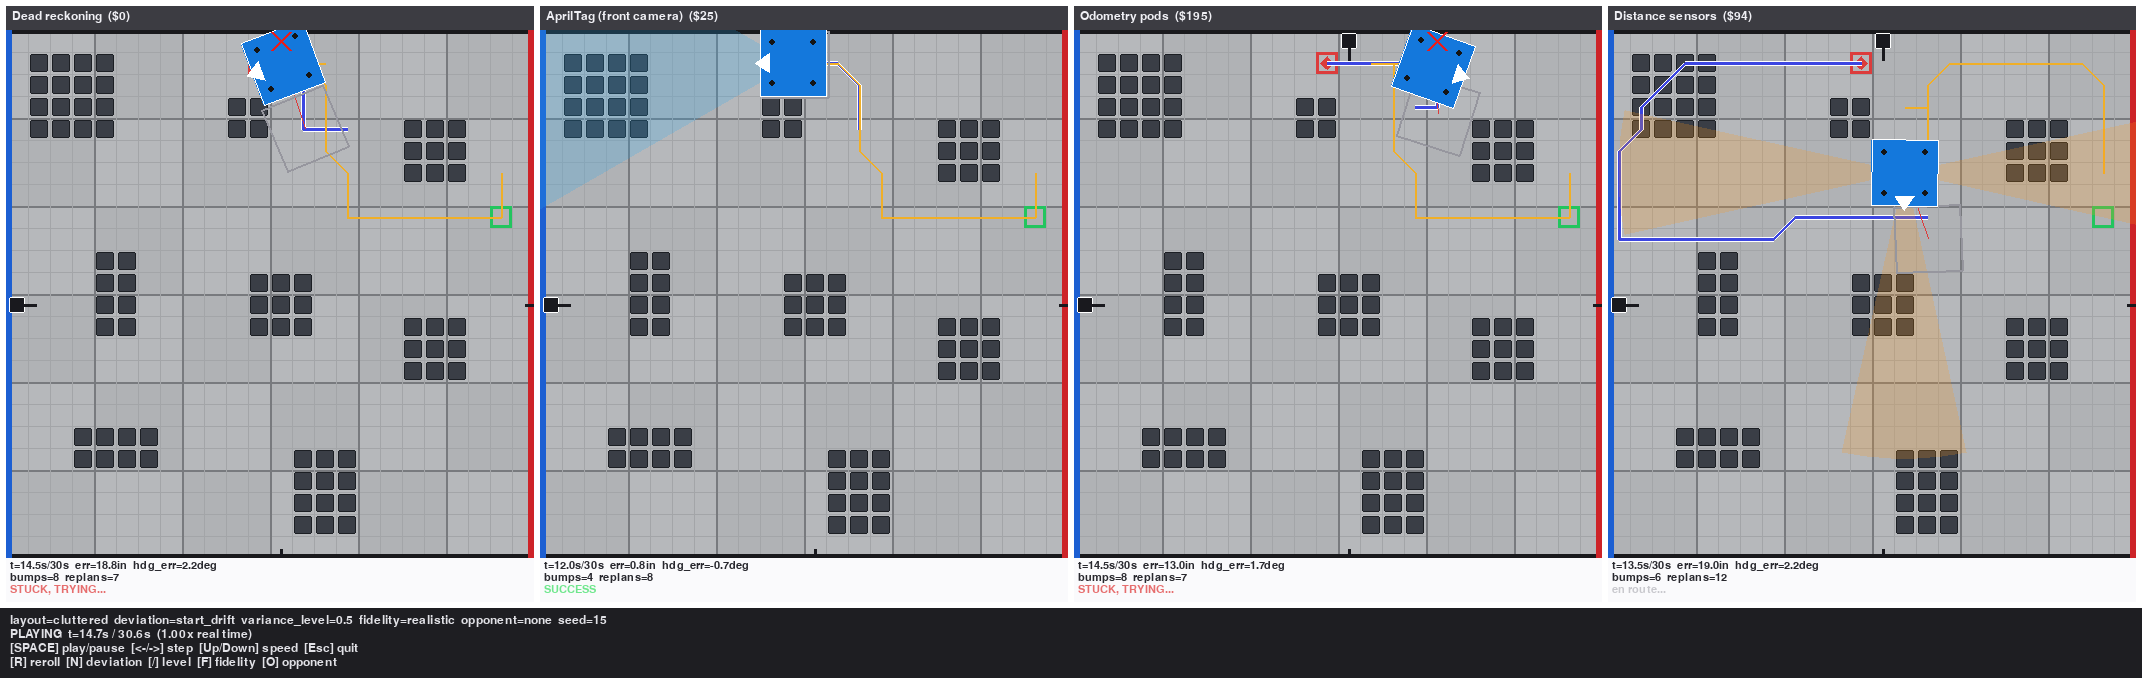
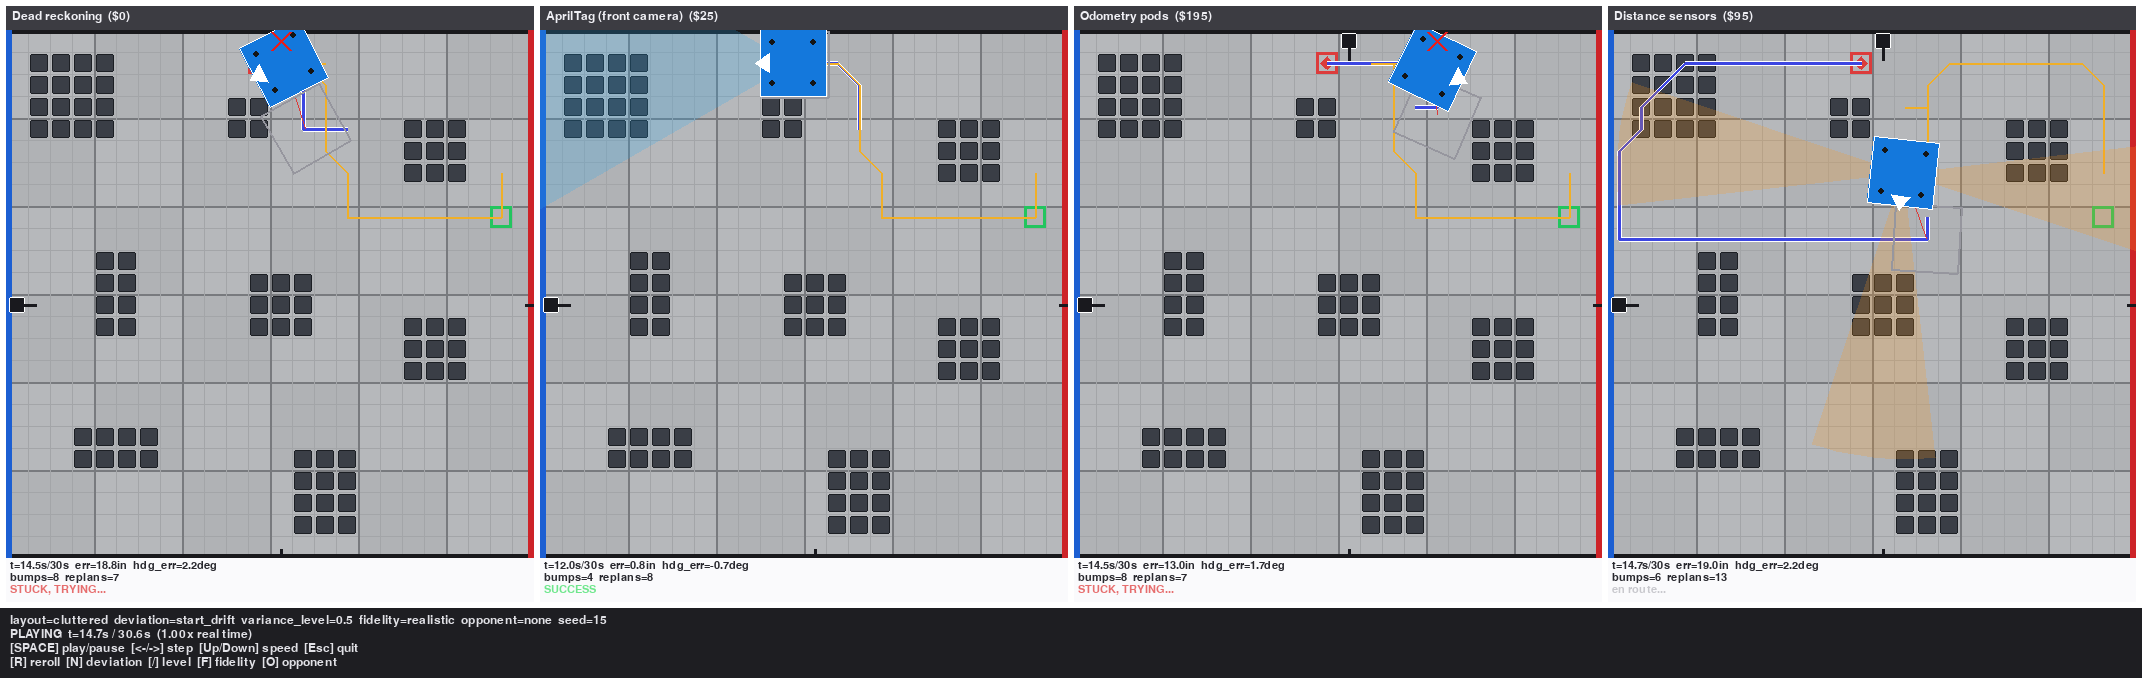
illustrate the README with poster figures, fix the / label rounding and stale +6.1pp/, and align poster figure names with their generators

diff --git a/pygame_app/scenarios/scenario_ftc_suites.py b/pygame_app/scenarios/scenario_ftc_suites.py
@@ -91,7 +91,7 @@ from nav.algorithms import astar
 from nav.config import COST_INFLUENCE_RADIUS, COST_MAX_EXTRA
 from nav.grid import Grid
 
-from ftc.config import CELL_SIZE_IN, FTC_GRID_SIZE, ROBOT_RADIUS_CELLS
+from ftc.config import CELL_SIZE_IN, FTC_GRID_SIZE, ROBOT_RADIUS_CELLS, usd
 from ftc.field import build_grid, tag_sites_for
 from ftc.sensors import SUITE_LABELS, SUITE_ORDER, SUITES, heading_deg
 from ftc.suite_benchmark import DEVIATION_TYPE_ORDER, DEVIATION_TYPES, MAX_ATTEMPTS_PER_TRIAL, MIN_PATH_LEN
@@ -476,7 +476,7 @@ def draw_panel(screen, font, hud_font, x0, y0, cell_px, grid_size, obstacle_cell
     pygame.draw.rect(screen, PANEL_BG, (x0, y0, panel_w, panel_h))
     pygame.draw.rect(screen, LABEL_BG, (x0, y0, panel_w, LABEL_H))
     name = SUITE_LABELS.get(trace.suite.name, trace.suite.name)
-    screen.blit(font.render(f"{name}  (${trace.suite.cost_usd:.0f})", True, LABEL_TEXT), (x0 + 6, y0 + 4))
+    screen.blit(font.render(f"{name}  (${usd(trace.suite.cost_usd)})", True, LABEL_TEXT), (x0 + 6, y0 + 4))
 
     gx0, gy0 = x0, y0 + LABEL_H
     clip_rect = pygame.Rect(gx0, gy0, panel_w, grid_size * cell_px)

diff --git a/screenshots/poster figures/generate_severity_curves.py b/screenshots/poster figures/generate_severity_curves.py
@@ -1,4 +1,4 @@
-"""Regenerates figure8_severity_curves.png: the one thing none of the other poster figures show --
+"""Regenerates severity_curves.png: the one thing none of the other poster figures show --
 DEGRADATION. Every other chart is a single-point summary; this one
 shows success rate collapsing as the field deviates further from the
 map, and that the three deviation types collapse at very different
@@ -17,7 +17,7 @@ simulation run.
 Regenerate after re-running ftc/suite_benchmark.py (i.e. whenever
 benchmark_results/ftc_suite_results.csv changes):
 
-    python3 "screenshots/poster figures/generate_figure8_severity_curves.py"
+    python3 "screenshots/poster figures/generate_severity_curves.py"
 """
 import csv
 import sys
@@ -35,7 +35,7 @@ sys.path.insert(0, str(OUT_DIR))
 from poster_common import REPO_ROOT  # noqa: E402
 
 RESULTS_CSV = REPO_ROOT / "benchmark_results" / "ftc_suite_results.csv"
-OUT = OUT_DIR / "figure8_severity_curves.png"
+OUT = OUT_DIR / "severity_curves.png"
 
 DEVIATION_ORDER = ["start_drift", "obstacle_drift", "unplanned_blocker"]
 DEVIATION_LABELS = {

diff --git a/screenshots/poster figures/generate_deviation_types.py b/screenshots/poster figures/generate_deviation_types.py
@@ -1,4 +1,4 @@
-"""Regenerates figure9_deviation_types.png: the three deviation types swept in Pillar 3, as three field
+"""Regenerates deviation_types.png: the three deviation types swept in Pillar 3, as three field
 thumbnails instead of three table rows. Each panel turns ON exactly one
 deviation axis (the other two held at 0), which is the same isolation
 ftc/suite_benchmark.py's sweep uses -- so the panels show the literal
@@ -16,7 +16,7 @@ mostly buys the start-drift and blocker panels.
 
 Regenerate after any change to ftc/field.py or nav/field_variance.py:
 
-    python3 "screenshots/poster figures/generate_figure9_deviation_types.py"
+    python3 "screenshots/poster figures/generate_deviation_types.py"
 """
 import sys
 from pathlib import Path
@@ -37,7 +37,7 @@ from ftc.field import build_grid, eroded_obstacle_cells  # noqa: E402
 from nav.algorithms import astar  # noqa: E402
 from nav.field_variance import generate_ground_truth  # noqa: E402
 
-OUT = OUT_DIR / "figure9_deviation_types.png"
+OUT = OUT_DIR / "deviation_types.png"
 
 LAYOUT = "cluttered"
 START = (21, 2)

diff --git a/screenshots/poster figures/generate_sensor_coverage.py b/screenshots/poster figures/generate_sensor_coverage.py
@@ -1,4 +1,4 @@
-"""Regenerates figure5_sensor_coverage.png: the mechanism behind this project's headline NEGATIVE result --
+"""Regenerates sensor_coverage.png: the mechanism behind this project's headline NEGATIVE result --
 three distance sensors cover only ~75 degrees of the robot's 360, so
 most of the field around the robot is simply unsensed. This is what
 explains the negative bar in figure3 and the worst point in figure4.
@@ -11,7 +11,7 @@ figure changes with it.
 
 Regenerate after any change to ftc/config.py's distance-sensor block:
 
-    python3 "screenshots/poster figures/generate_figure5_sensor_coverage.py"
+    python3 "screenshots/poster figures/generate_sensor_coverage.py"
 """
 import sys
 from pathlib import Path
@@ -31,7 +31,7 @@ from ftc.config import (  # noqa: E402
     DISTANCE_SENSOR_MOUNT_HEADINGS_DEG, DISTANCE_SENSOR_RANGE_CELLS,
 )
 
-OUT = OUT_DIR / "figure5_sensor_coverage.png"
+OUT = OUT_DIR / "sensor_coverage.png"
 
 SENSED = "#3aa17e"
 UNSENSED = "#d8dde2"

diff --git a/screenshots/poster figures/generate_match_lifecycle.py b/screenshots/poster figures/generate_match_lifecycle.py
@@ -1,4 +1,4 @@
-"""Regenerates figure6_match_lifecycle.png: what one simulated match actually does, as
+"""Regenerates match_lifecycle.png: what one simulated match actually does, as
 a loop rather than four paragraphs of prose.
 
 Mirrors ftc/match.py's real control flow: plan once from the BELIEVED
@@ -18,7 +18,7 @@ This figure is pure schematic -- it reads no CSV and runs no simulation,
 so it only needs regenerating if ftc/match.py's control flow itself
 changes:
 
-    python3 "screenshots/poster figures/generate_figure6_match_lifecycle.py"
+    python3 "screenshots/poster figures/generate_match_lifecycle.py"
 """
 from pathlib import Path
 
@@ -28,7 +28,7 @@ import matplotlib.pyplot as plt
 from matplotlib.patches import FancyArrowPatch, FancyBboxPatch
 
 OUT_DIR = Path(__file__).resolve().parent
-OUT = OUT_DIR / "figure6_match_lifecycle.png"
+OUT = OUT_DIR / "match_lifecycle.png"
 
 STEP_FACE, STEP_EDGE = "#dce7f6", "#2f5fb0"
 WIN_FACE, WIN_EDGE = "#d8efdc", "#2e8b3d"

diff --git a/pygame_app/scenarios/scenario_ftc_bundles.py b/pygame_app/scenarios/scenario_ftc_bundles.py
@@ -118,7 +118,7 @@ sys.path.insert(0, str(Path(__file__).resolve().parent.parent.parent))
 import pygame
 
 from ftc.bundle import enumerate_bundles
-from ftc.config import FTC_GRID_SIZE
+from ftc.config import FTC_GRID_SIZE, usd
 from ftc.optimizer import DEFAULT_COMPONENTS
 from ftc.sensors import SUITE_LABELS, SUITES, heading_deg
 from ftc.suite_benchmark import DEVIATION_TYPE_ORDER
@@ -233,7 +233,7 @@ def draw_bundle_panel(screen, font, hud_font, x0, y0, cell_px, grid_size, obstac
     # guarantees the SAME name renders in full, untruncated, on the
     # status bar's own bundle-label line below every frame, which is
     # what "each bundle's name can be seen" actually rests on.
-    label_text = _truncate_to_width(font, f"{title}  (${cost_usd:.0f})", panel_w - 12)
+    label_text = _truncate_to_width(font, f"{title}  (${usd(cost_usd)})", panel_w - 12)
     screen.blit(font.render(label_text, True, LABEL_TEXT), (x0 + 6, y0 + 4))
 
     gx0, gy0 = x0, y0 + LABEL_H

diff --git a/README.md b/README.md
@@ -16,27 +16,31 @@ sensors are actually worth the money, and when?**
 Four sensor suites driving the *identical* seeded 30-second match, in real
 time (`pygame_app/scenarios/scenario_ftc_suites.py`). The gray outline behind
 each robot is where it *believes* it is; the gap is accumulated pose error.
-AprilTag's camera FOV is the blue cone, the distance suite's three ToF cones
-are the tan wedges — that visible coverage gap is the geometry behind the
-fourth headline result below. This is one scenario, not a ranking: the
-aggregate over 5,775 matches is in [Results](#results).
+AprilTag's camera FOV is the blue cone; the distance suite's three ToF cones
+are the tan wedges, and the unshaded space between them is what it cannot see.
+This is one scenario, not a ranking — the aggregate over 5,775 matches is in
+[Results](#results).
 
 ## Headline results
 
-- **A\* explores 68.9% fewer cells than Dijkstra** for the identical optimal
-  path — 241 vs. 75 cells on average across 20 random 25x25 grids.
+- **Best value is not best performance.** A $25 AprilTag webcam returns 32x
+  the success-rate gain per dollar of the $314 "buy everything" bundle
+  (+16.0 vs. +0.5 points per $100), even though odometry pods alone post the
+  highest raw success rate (30%). Stacking sensors hits diminishing returns
+  fast. *(This ranking is tier-dependent — see the caveat under
+  [Results](#results).)*
 - **The "obviously better" fix backfires.** Naively merging AprilTag +
   odometry pods looks good (35% success), but a real confidence-weighted
   fusion of those same two sensors *drops* it to 22% — below odometry alone
   (25%). More sensors, fused more carefully, made the robot less reliable.
-- **Best value is not best performance.** A $25 AprilTag webcam returns 32x
-  the success-rate gain per dollar of the $314 "buy everything" bundle
-  (+16.0 vs. +0.5 points per $100), even though odometry pods alone post the
-  highest raw success rate (30%).
 - **A "safe-looking" sensor can be the worst buy.** The 3-sensor distance
-  suite collides in 77% of trials even at *zero* field deviation: its cones
-  cover only ~75° of the 360° around the robot, a geometry problem no amount
-  of field accuracy fixes.
+  suite is the only paid upgrade to land *below* the free baseline (10% vs.
+  14%, p=0.003). Its cones see ~75° of 360°, and reacting to that fragment
+  routes the robot into the 285° it cannot see.
+- **Underneath it all, A\* explores 68.9% fewer cells than Dijkstra** for an
+  identical-cost path — 241 vs. 75 cells across 20 random 25x25 grids. The
+  planner is infrastructure here, not the finding; picking it was a
+  completeness argument, not a speed one.
 
 Numbers and 95% bootstrap CIs behind each claim: [Results](#results) below,
 `benchmark_results/ftc_suite_writeup.md`, and [VALIDITY.md](VALIDITY.md).
@@ -107,6 +111,8 @@ elements don't match the CAD, or an opponent parked somewhere unplanned, needs
 the opposite. These are two different failure modes with two different fixes,
 not one generic "uncertainty" axis.
 
+![Two field diagrams side by side. Left, pose error: the robot's true position has diverged from where it believes it is, its gold true track peeling away from the blue planned route. Right, obstacle error: the map said one thing and the field says another, with a red obstacle blocking the planned route that the map never had](screenshots/poster%20figures/figure1_pose_vs_obstacle_error.png)
+
 A team gets roughly 10 matches a season — one noisy, unrepeatable trial each,
 no ground truth, no control over how far reality deviates from what the
 routine assumed. That is not enough data to answer this empirically, no matter
@@ -117,14 +123,22 @@ use if you had more of it.
 `ftc/suite_benchmark.py` sweeps 7 sensor suites (`ftc/sensors.py`) against 3
 independently-scaled deviation types (`nav/field_variance.py`) at 11 deviation
 levels on a real 30-second budget (`ftc/match.py`) — 5,775 matches, in about a
-minute.
+minute. One match runs like this:
+
+![Flow diagram of a single simulated match: PLAN an A* route from the believed start over the assumed map, DRIVE one step while pose error grows with distance driven, SENSE to correct pose and reveal real obstacles, RE-PLAN if the map changed, repeating every step; after each step the match checks for success when the true position reaches the goal, or failure by collision or by the 30-second period expiring](screenshots/poster%20figures/match_lifecycle.png)
+
+The split that makes the whole study work: the robot only ever acts on what it
+**believes**, and the match is scored on what is **true**.
 
 ## Results
 
 25 trials x 7 suites x 3 deviation types x 11 levels, on the "cluttered" field
 layout. Full breakdown in `benchmark_results/ftc_suite_writeup.md`.
 
-![Sensor suite success rate vs. deviation, one row per deviation type, with 95% bootstrap CI bands](benchmark_results/ftc_suite_comparison.png)
+![Three side-by-side line charts, one per deviation type -- start drift (pose error), obstacle drift (map error), and unplanned blocker (opponent robot) -- tracking success rate against deviation severity for dead reckoning, AprilTag, and odometry pods. Each suite degrades on a different curve, and which one leads changes between panels](screenshots/poster%20figures/severity_curves.png)
+
+Three suites shown for legibility; the all-7 version with 95% bootstrap CI
+bands is `benchmark_results/ftc_suite_comparison.png`.
 
 | Suite | Cost | Success rate (variance_level >= 0.3) |
 |---|---:|---:|
@@ -136,6 +150,8 @@ layout. Full breakdown in `benchmark_results/ftc_suite_writeup.md`.
 | IMU | $0 | 14% |
 | Distance sensors | $95 | 10% |
 
+![Horizontal bar chart of success-rate gain per $100 spent, highest value first: AprilTag front camera at $25 returns +16.0 points per $100, front plus rear cameras +8.0, odometry pods +7.8, the $314 full suite only +0.5, and distance sensors a negative -4.2](screenshots/poster%20figures/figure3_reliability_per_dollar.png)
+
 Odometry pods wins on raw success rate; AprilTag wins on value by a wide
 margin (+16.0 points per $100 over the free baseline, vs. the full suite's
 +0.5 — a 32x gap). The suites the full bundle stacks on top run into
@@ -143,13 +159,42 @@ diminishing returns rather than each adding its standalone value again. Every
 cost is a real, currently-listed vendor price (REV Robotics, Optii, Logitech);
 see `ftc/config.py`'s per-constant source comments.
 
-**The most useful result is negative.** The distance-sensor suite collides in
-77% of trials at *zero* field deviation. About two-thirds of those persist
-with pose drift forced to zero — the cause isn't drift, it's that 3 ToF cones
-at ~12.5° half-angle cover only ~75° of 360°. `ftc/coverage_benchmark.py`
-shows this is structural: sweeping up to 8 sensors (the most this project
-prices as legal FTC hardware) still leaves a 160° blind arc. Buying distance
-sensors without covering the perimeter can be worse than not sensing at all.
+**The value ranking is tier-dependent, and this is the honest caveat.** Every
+number in this section assumes `ftc/config.py`'s `"optimistic"` fidelity tier —
+an omnidirectional camera and perfect heading knowledge, both real unmodeled
+optimisms. `ftc/fidelity_benchmark.py` reruns the identical sweep one step
+down, and best value flips from AprilTag (+16.0/$100) to **Odometry pods**
+(+8.8/$100) at `"realistic"`, staying there at `"pessimistic"`. AprilTag's
+raw-success and cost figures hold; its *best-value crown* does not survive
+leaving the optimistic tier. [Detail](VALIDITY.md#camera-fov-heading-error)
+
+### The most useful result is negative
+
+The distance-sensor suite is the only paid upgrade that lands *below* the free
+baseline — 10% vs. 14%, a paired difference of -4.0% (95% CI [-6.7%, -1.3%],
+p=0.003). Adding a sensor measurably hurt.
+
+![Polar diagram of the robot's surroundings: three narrow green wedges, one forward and one to each side, cover about 75 degrees in total, while the remaining 285 degrees is shaded as unsensed, with an obstacle marked in the blind region annotated as invisible until the robot drives into it](screenshots/poster%20figures/sensor_coverage.png)
+
+The geometry is manufacturer spec, not an estimate: the REV-31-1505 has a 25°
+field of view and 2m range, so three of them mounted front/left/right — the
+usual FTC pattern — see ~75° of 360°. But the coverage gap alone would predict
+*no benefit*, not active harm. The mechanism behind the harm shows up in the
+per-trial data: these robots collide barely more often than dead reckoning
+(79.5% vs. 77.3%), but they do it after 3.1 steps instead of 6.6. **Acting on a
+fragment of obstacle truth diverts them into the 285° they cannot see**, where
+dead reckoning at least follows a route planned against the whole assumed map.
+More sensors don't rescue it — `ftc/coverage_benchmark.py` sweeps up to 8 ToF
+sensors ($252) and success only moves 14% → 16%, because a 160° blind arc
+survives any FTC-legal count.
+
+**Scope this one carefully.** It is a finding about using ToF sensors as
+general obstacle detectors, which is how this model deploys them. Real teams
+more often use them for wall alignment and short-range squaring against a
+*known* target — a use this study doesn't model at all, and one where a narrow
+cone pointed where you already expect something is exactly the right tool. Read
+it as "narrow-cone sensing plus reactive replanning is a bad general obstacle
+strategy," not as "don't buy distance sensors."
 
 ### Which combination to buy
 
@@ -158,7 +203,7 @@ question. `ftc/bundle.py` composes suites into one working suite — costed over
 the **union of their parts**, which is what reduces 63 raw combinations to 23
 genuinely distinct robots — and `ftc/optimizer.py` searches that space.
 
-![Left: every buildable robot plotted by cost against weighted success rate, with the Pareto frontier marking the smart buys. Right: the winning robot per scenario -- the $245 three-part bundle takes four of the five scenarios, the $220 two-part bundle takes the tight-corridor one](benchmark_results/ftc_optimizer_match_frontier.png)
+![Grouped bar chart across five scenarios, comparing the best single sensor against the best 2-or-more-part bundle in each. The bundle wins or ties everywhere: the $245 odometry-plus-two-cameras build takes four scenarios, and in the tight-corridor case the $220 odometry-plus-front-camera build reaches 62 percent against the best single sensor's 39 percent](screenshots/poster%20figures/figure5_scenario_deepdive.png)
 
 This ran over two scenario catalogs, and they name different robots — worth
 being explicit about, because the difference is the point rather than a
@@ -169,8 +214,13 @@ discrepancy:
 | Profiles / trials | 5 x 25 (2,875 matches) | 5 x 90 (10,350 matches) |
 | Fidelity | optimistic | realistic |
 | **Best average** | odometry + front camera ($220, 34%) | odometry + front + rear camera ($245, 26%) |
-| **Best worst-case** | encoders only ($0, 0%) | odometry + front + rear camera ($245, 12%) |
+| **Best worst-case** | *everything ties at 0%* — so $0 wins | odometry + front + rear camera ($245, 12%) |
 | Writeup | `ftc_optimizer_writeup.md` | `ftc_optimizer_match_writeup.md` |
+
+Read that worst-case row carefully: in the baseline catalog *every* robot has
+some scenario it never finishes, so "most robust" is a tie the free option wins
+on price, not evidence that encoders are sturdy. The match-realistic catalog
+separates them properly.
 
 The match-realistic catalog is the one to trust for a purchasing decision: it
 runs at realistic fidelity with mixed deviation axes per scenario, and there
@@ -178,9 +228,11 @@ best-average and most-robust name the *same* robot, so there's no tradeoff to
 weigh. The optimistic catalog's headline $220 robot is the cheaper answer to an
 easier question.
 
-Per scenario (chart above, right), the $245 bundle wins four of the five and
-the $220 bundle takes the tight-corridor case — so the rear camera earns its
-$25 everywhere except the one layout where there is no room to use it.
+Per scenario (chart above), a bundle wins or ties everywhere — the $245 build
+takes four of the five, and the $220 build takes the tight-corridor case, where
+the rear camera has no room to earn its $25. The cost-vs-success Pareto
+frontier over all 23 buildable robots is
+`benchmark_results/ftc_optimizer_match_frontier.png`.
 
 Either way the cheapest *significant* upgrade is the same: adding AprilTag to
 odometry pods, +8.8% (95% CI [+4.0%, +14.4%], p<0.001) for $25.
@@ -256,6 +308,8 @@ at the grid's resolution if one exists); RRT is only probabilistically
 complete (guaranteed as sample count → ∞, not at any fixed budget).
 `nav/scale_benchmark.py` shows that gap as measured incompleteness as grids
 grow:
+
+![Horizontal bar chart of planning time on a log scale for five algorithms: A* selected at 0.25ms exploring 75 cells, 69 percent fewer than Dijkstra's 241 at 0.74ms; RRT at 0.99ms taking a 9.2 percent longer route; RRT* at 67.72ms for a 25 percent shorter route but 268 times longer to compute; and D* Lite noted as a route repairer that is no faster than A* at FTC field scale](screenshots/poster%20figures/figure2_ftc_field.png)
 
 ![The same grid, start, and goal run through all three planners: Dijkstra floods nearly every reachable cell before finding a path, A* reaches an identical-cost path having explored a small fraction of that area, RRT sketches a rougher, longer tree-based route](screenshots/pygame/forest_corridor.png)
 
